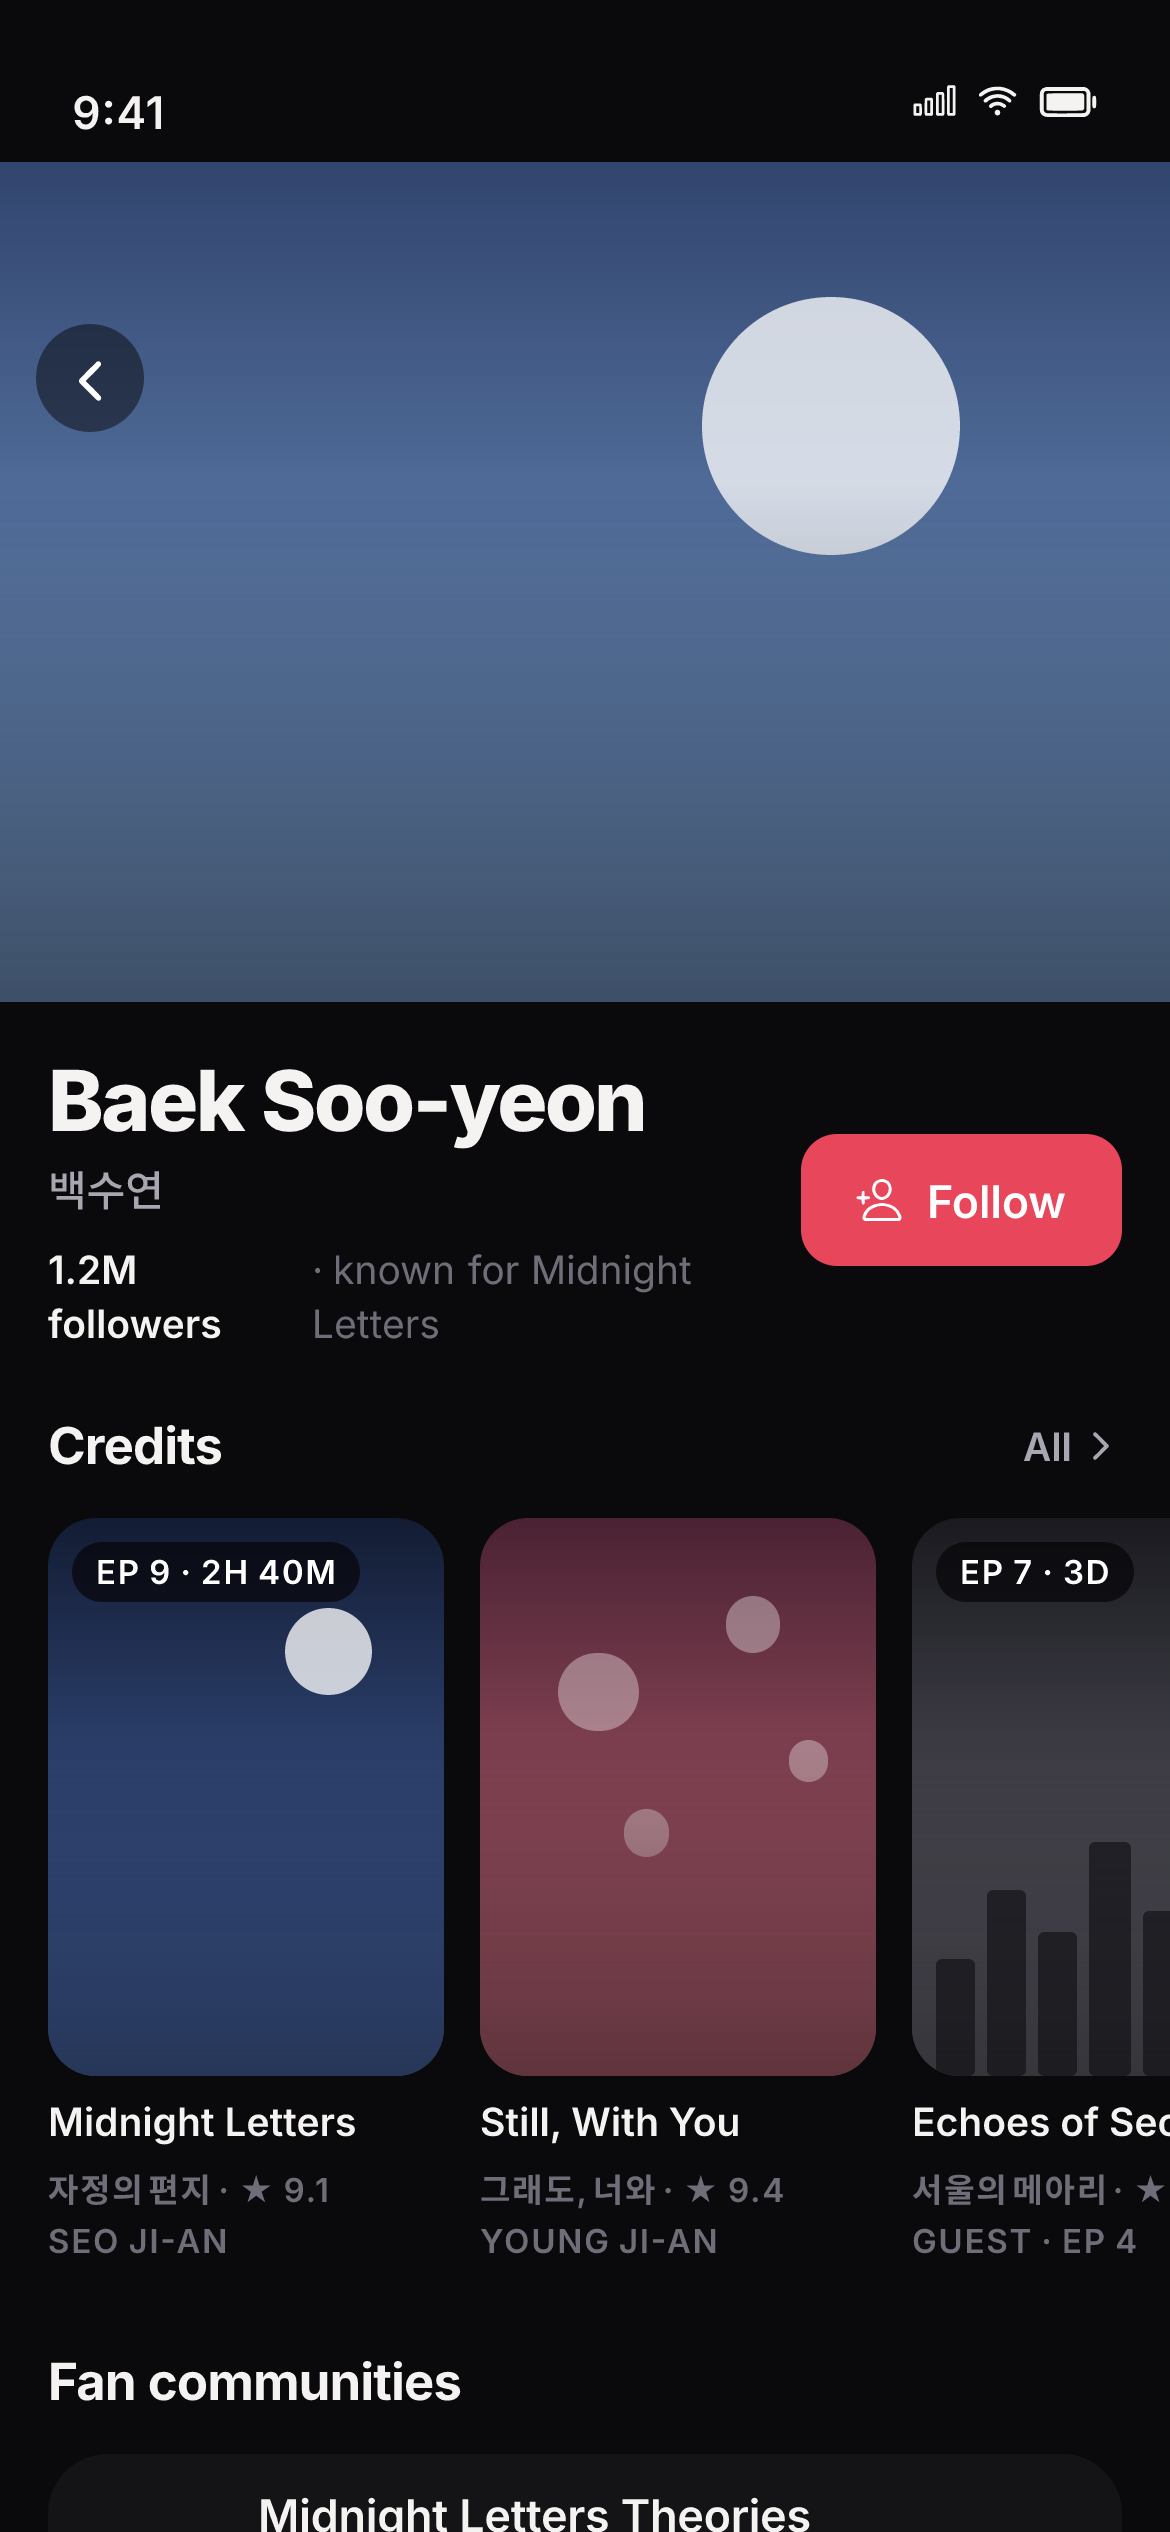
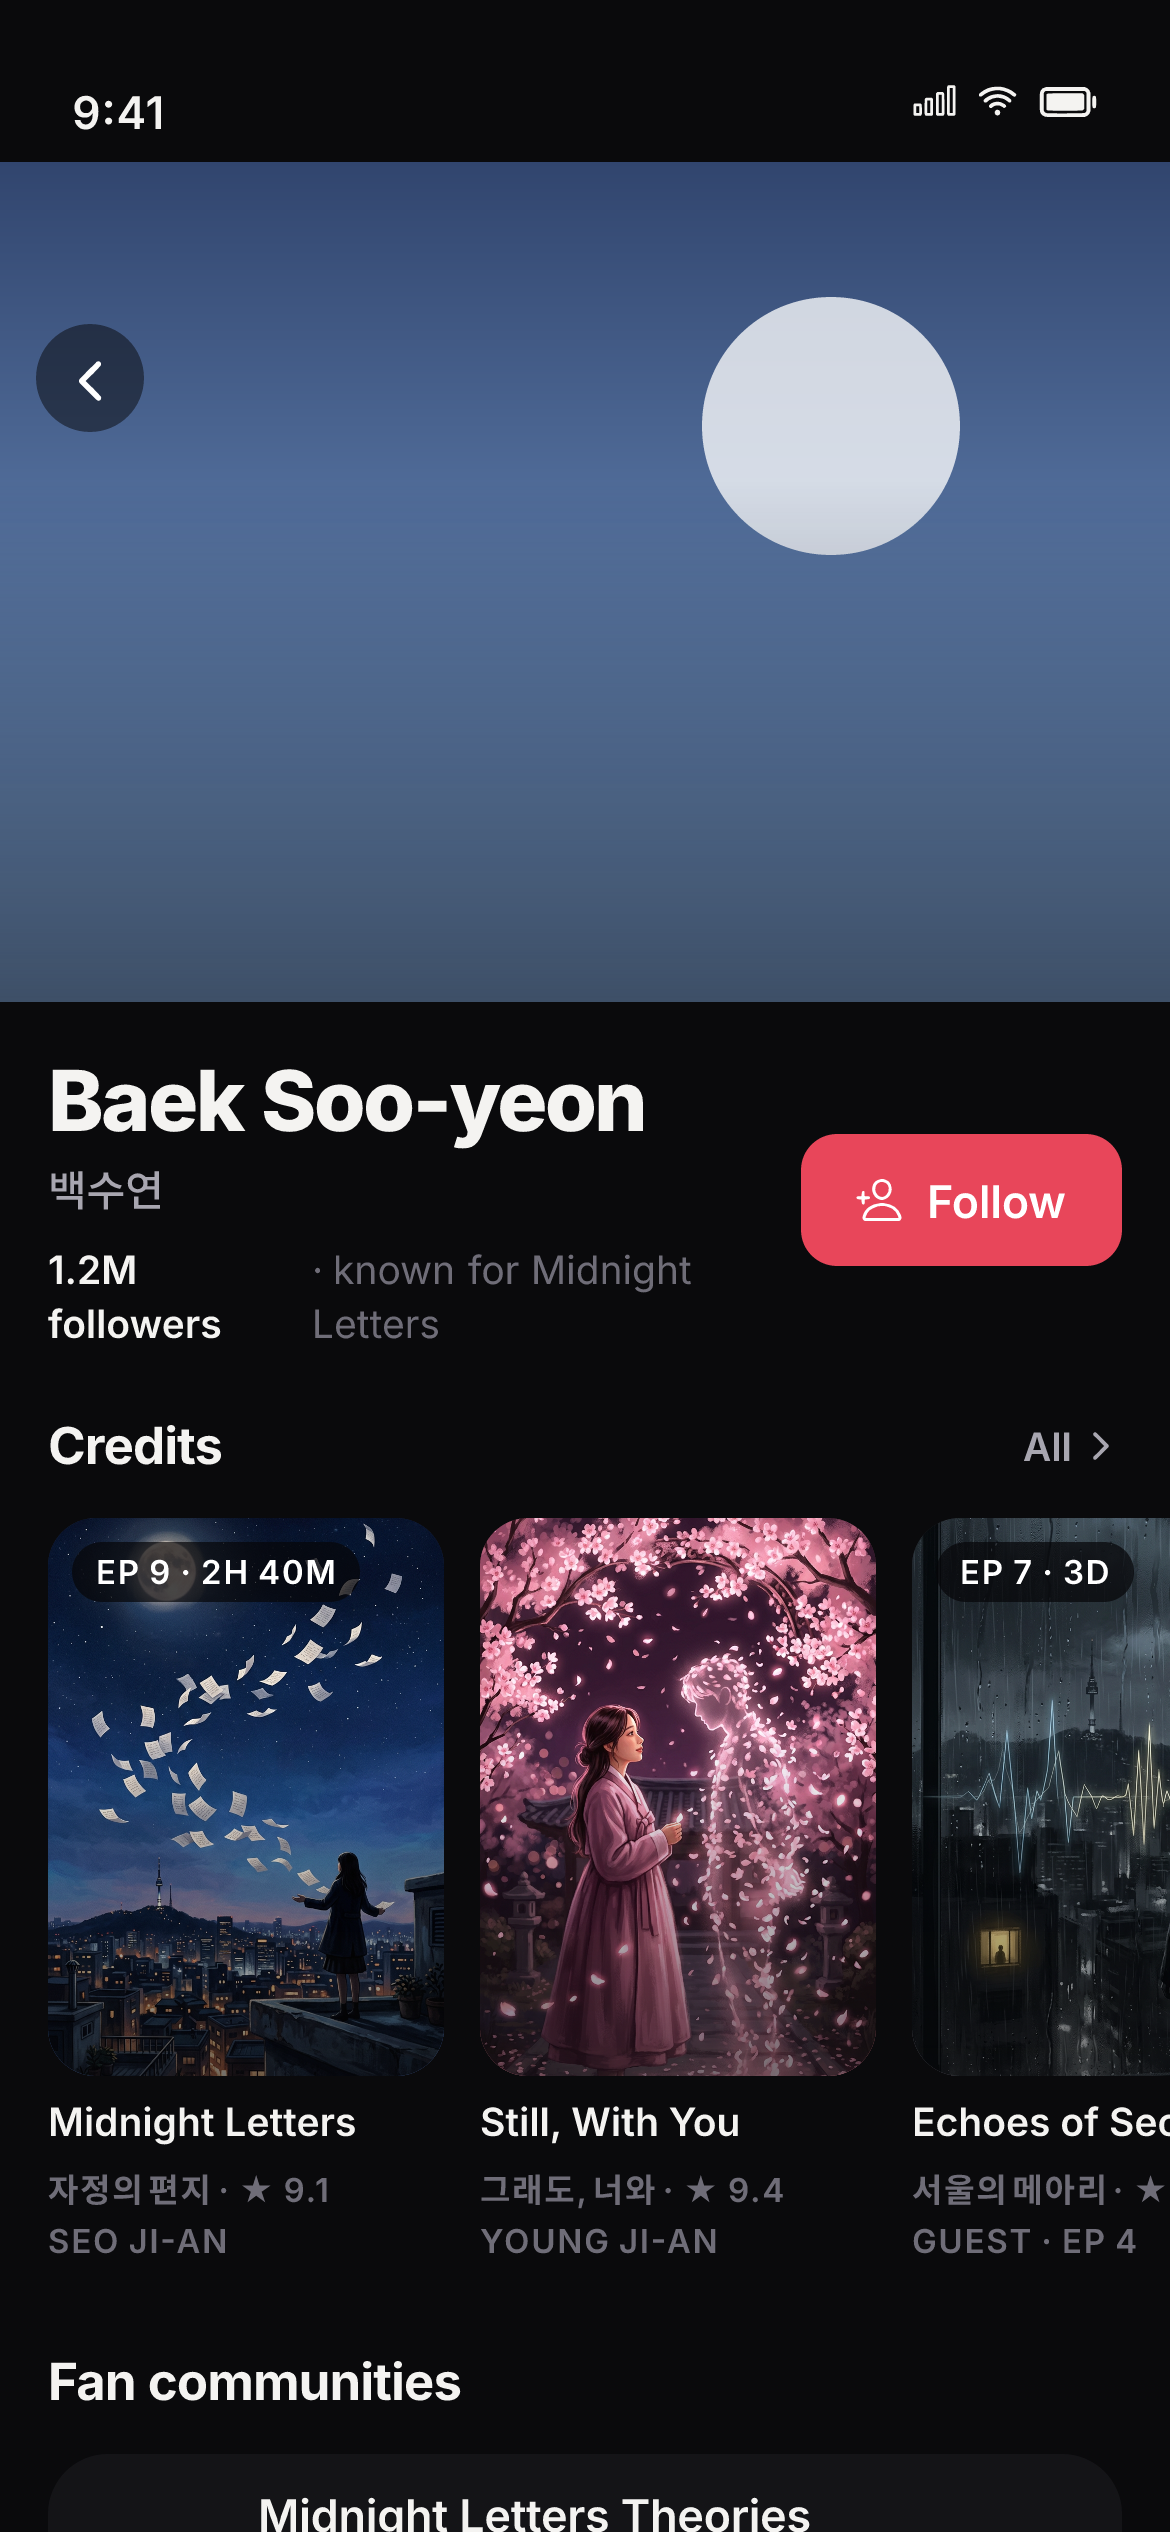
design: wire generated key-art posters into mockup renders (placeholders only)

Changed region(s): [[0.0308, 0.5928, 1.0, 0.8424]]

diff --git a/design/data.ts b/design/data.ts
@@ -13,8 +13,17 @@ export interface Art {
   from: string;
   to: string;
   motif: Motif;
+  /** Design-phase generated key art (placeholder). Procedural gradient when absent. */
+  file?: unknown;
 }
 
+
+/* Design-phase key art: AI-generated placeholders for fictional dramas only. */
+const ART_MIDNIGHT = require("./assets/art/midnight.png");
+const ART_SUMMER = require("./assets/art/summer.png");
+const ART_ECHOES = require("./assets/art/echoes.png");
+const ART_STILL = require("./assets/art/stillwithyou.png");
+const ART_LANTERN = require("./assets/art/lantern.png");
 export interface Drama {
   id: string;
   title: string;
@@ -157,7 +166,7 @@ export const DRAMAS: Record<string, Drama> = {
     totalEpisodes: 16,
     rating: 9.1,
     followers: "128K",
-    art: { from: "#131C33", to: "#4C6FB8", motif: "moon" },
+    art: { from: "#131C33", to: "#4C6FB8", motif: "moon" , file: ART_MIDNIGHT },
     synopsis: "A night-shift postman begins receiving letters dated forty years in the future — each one addressed to someone who has not died yet.",
   },
   summer: {
@@ -174,7 +183,7 @@ export const DRAMAS: Record<string, Drama> = {
     totalEpisodes: 12,
     rating: 8.7,
     followers: "96K",
-    art: { from: "#123B3A", to: "#5FA88F", motif: "tide" },
+    art: { from: "#123B3A", to: "#5FA88F", motif: "tide" , file: ART_SUMMER },
     synopsis: "Ten years after a promise made on a ferry platform, two ex-best friends keep almost-meeting in the same seaside town.",
   },
   echoes: {
@@ -191,7 +200,7 @@ export const DRAMAS: Record<string, Drama> = {
     totalEpisodes: 12,
     rating: 8.9,
     followers: "74K",
-    art: { from: "#1A1A20", to: "#6E6C78", motif: "city" },
+    art: { from: "#1A1A20", to: "#6E6C78", motif: "city" , file: ART_ECHOES },
     synopsis: "A sound forensic analyst hears a kidnapping in a nine-year-old recording — and recognises her own voice in it.",
   },
   stillwithyou: {
@@ -205,7 +214,7 @@ export const DRAMAS: Record<string, Drama> = {
     totalEpisodes: 16,
     rating: 9.4,
     followers: "203K",
-    art: { from: "#4A2233", to: "#C96A7B", motif: "blossom" },
+    art: { from: "#4A2233", to: "#C96A7B", motif: "blossom" , file: ART_STILL },
     synopsis: "A grief counsellor who can see the last memory of the dead meets a man whose last memory is her.",
   },
   quiettide: {
@@ -236,7 +245,7 @@ export const DRAMAS: Record<string, Drama> = {
     totalEpisodes: 14,
     rating: 8.2,
     followers: "38K",
-    art: { from: "#4A3418", to: "#C99A4E", motif: "lantern" },
+    art: { from: "#4A3418", to: "#C99A4E", motif: "lantern" , file: ART_LANTERN },
     synopsis: "Five friends inherit a failing alley of lantern shops and one very opinionated neighbourhood cat.",
   },
 };
@@ -279,7 +288,7 @@ export const POSTS: Post[] = [
     body: "Episode 8 broke me in the best way possible. The acting, the silence, the everything. I'm not okay but I'm so here for it.",
     drama: DRAMAS.midnight,
     episode: 8,
-    art: { from: "#131C33", to: "#4C6FB8", motif: "moon" },
+    art: { from: "#131C33", to: "#4C6FB8", motif: "moon" , file: ART_MIDNIGHT },
     artCaption: "the rooftop scene, but make it a painting",
     reactions: { heart: 342, tears: 128, fire: 96 },
     mine: "heart",
@@ -309,7 +318,7 @@ export const POSTS: Post[] = [
     body: "60 seconds of every glance between them in eps 1–10, cut to the OST piano theme. No dialogue. You're welcome.",
     drama: DRAMAS.summer,
     episode: 10,
-    art: { from: "#123B3A", to: "#5FA88F", motif: "tide" },
+    art: { from: "#123B3A", to: "#5FA88F", motif: "tide" , file: ART_SUMMER },
     artCaption: "4K edit · 0:60 · sound on",
     reactions: { heart: 1204, tears: 402, soft: 233 },
     comments: 98,
@@ -326,7 +335,7 @@ export const POSTS: Post[] = [
     body: "Episode 9 airs tonight at 21:20 KST. A letter arrives that was never posted. #MidnightLetters",
     drama: DRAMAS.midnight,
     episode: 9,
-    art: { from: "#16233F", to: "#4C6FB8", motif: "city" },
+    art: { from: "#16233F", to: "#4C6FB8", motif: "city" , file: ART_MIDNIGHT },
     artCaption: "Tonight · 21:20 KST",
     reactions: { fire: 890, heart: 640 },
     comments: 210,

diff --git a/design/ui.tsx b/design/ui.tsx
@@ -1,5 +1,6 @@
 import React from "react";
 import {
+  Image,
   Pressable,
   ScrollView,
   StyleProp,
@@ -441,7 +442,15 @@ export function Poster({ art, width, height, title, titleKr, rounded = RADIUS.lg
   return (
     <View style={{ width, height, borderRadius: rounded, overflow: "hidden" }}>
       <Gradient colors={[art.from, art.to]} dir="down" style={{ flex: 1 }}>
-        <MotifArt art={art} w={width} h={height} />
+        {art.file ? (
+          <Image
+            source={typeof art.file === "string" ? { uri: art.file } : (art.file as never)}
+            style={{ position: "absolute", top: 0, left: 0, width, height }}
+            resizeMode="cover"
+          />
+        ) : (
+          <MotifArt art={art} w={width} h={height} />
+        )}
         <Gradient colors={["rgba(0,0,0,0)", "rgba(6,6,8,0.55)"]} dir="down" style={{ position: "absolute", left: 0, right: 0, bottom: 0, height: height * 0.62 }} />
         {title ? (
           <View style={{ position: "absolute", left: 10, right: 10, bottom: 10 }}>

diff --git a/design/tools/render-entry.tsx b/design/tools/render-entry.tsx
@@ -167,8 +167,16 @@ function convert(node: Node): any {
         type: "div",
         props: { style: { display: "flex", flexDirection: "column", backgroundImage: gradientCss(node.props), ...expand(node.props.style) }, children: single },
       };
-    case "him":
-      return { type: "div", props: { style: divStyle(node.props.style) } };
+    case "him": {
+      const src = node.props.source?.uri ?? node.props.source;
+      return {
+        type: "img",
+        props: {
+          src: typeof src === "string" ? src : undefined,
+          style: { objectFit: "cover", ...divStyle(node.props.style) },
+        },
+      };
+    }
     default:
       return { type: "div", props: { style: divStyle(node.props.style), children: single } };
   }
